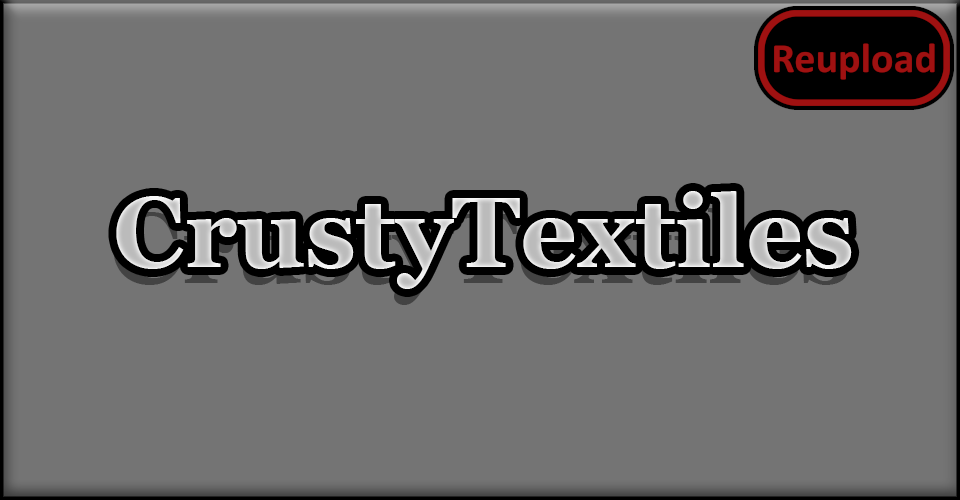
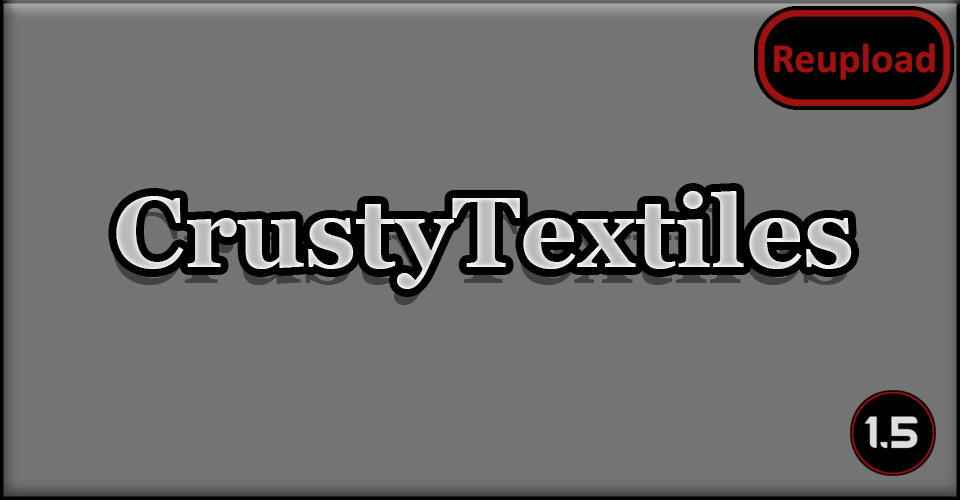
Mod updated for 1.5 and passed autotests

Changed region(s): [[0.875, 0.78, 1.0, 0.96]]

diff --git a/README.md b/README.md
@@ -27,11 +27,13 @@ Boiled Leather, Bonded Leather have been removed in this version as they felt un
 
 -  See if the the error persists if you just have this mod and its requirements active.
 -  If not, try adding your other mods until it happens again.
--  Post your error-log using https://steamcommunity.com/workshop/filedetails/?id=818773962]HugsLib and command Ctrl+F12
+-  Post your error-log using https://steamcommunity.com/workshop/filedetails/?id=818773962]HugsLib or the standalone https://steamcommunity.com/sharedfiles/filedetails/?id=2873415404]Uploader and command Ctrl+F12
 -  For best support, please use the Discord-channel for error-reporting.
 -  Do not report errors by making a discussion-thread, I get no notification of that.
 -  If you have the solution for a problem, please post it to the GitHub repository.
+-  Use https://github.com/RimSort/RimSort/releases/latest]RimSort to sort your mods
 
 
 
+https://steamcommunity.com/sharedfiles/filedetails/changelog/2015419152]![Image](https://img.shields.io/github/v/release/emipa606/CrustyTextiles?label=latest%20version&style=plastic&color=9f1111&labelColor=black)
 
